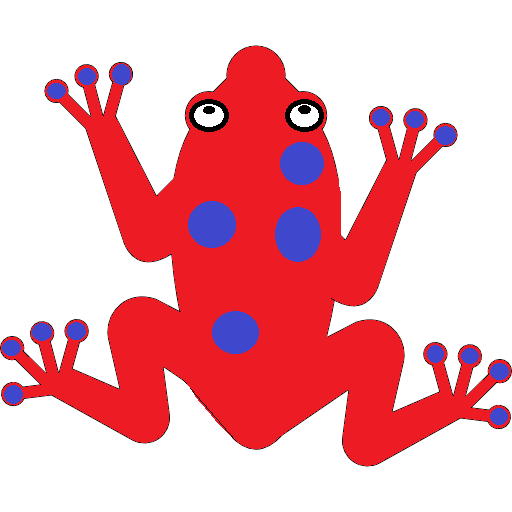
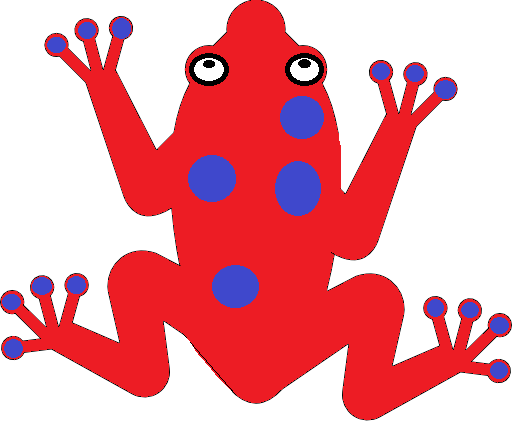
final resizability, random objects/logs speeds, slightly better object images
and many small improvements

diff --git a/main.py b/main.py
@@ -8,20 +8,39 @@ from pygame import mixer
 # reset function
 def reset():
     # getting the new one_game_unit
-    global one_game_unit
+    global one_game_unit, screen
     copy_of_unit = one_game_unit
     one_game_unit = int(screen.get_height() / 12)
-    print(one_game_unit)
-    # here some more resizing of the window will be done, I am currently working on a solution(the problem is that some times the
-    # one_game_unit is a float, but because I convert it to an int there can be problems with where to spawn the obstacles and logs)
+    # finding out which exponent of one_game_unit is the closest to the screen height
+    i = 0
+    tmp = 0
+    while one_game_unit*i <= screen.get_height():
+        tmp = one_game_unit*i
+        i += 1
+    # doing the same for the width
+    j = 0
+    tmp2 = 0
+    while one_game_unit*j <= screen.get_width():
+        tmp2 = one_game_unit*j
+        j += 1
+    # resizing the screen
+    if resizability:
+        screen = pygame.display.set_mode((tmp2, tmp), pygame.RESIZABLE)
+    else:
+        screen = pygame.display.set_mode((tmp2, tmp))
 
         # resizing all the images
     if one_game_unit != copy_of_unit:
         # resizing the player
-        global resized_player, resized_an_player1, resized_an_player2
-        resized_player = pygame.transform.scale(player_image, (one_game_unit/1.5, one_game_unit/1.5))
-        resized_an_player1 = pygame.transform.scale(an_player1, (one_game_unit/1.5, one_game_unit/1.5))
-        resized_an_player2 = pygame.transform.scale(an_player2, (one_game_unit/1.5, one_game_unit/1.5))
+        global resized_player, resized_an_player1, resized_an_player2, player
+        resized_player = pygame.transform.scale(player_image, (one_game_unit/1.5, one_game_unit/1.7))
+        resized_an_player1 = pygame.transform.scale(an_player1, (one_game_unit/1.5, one_game_unit/1.7))
+        resized_an_player2 = pygame.transform.scale(an_player2, (one_game_unit/1.5, one_game_unit/1.7))
+        # I realised I never actually resized the player(I did thought it looked small, I thought that I deleted the player and created a new one, turned out I only moved him to starting position)
+        player.image = resized_player
+        player.an_images = [resized_an_player1, resized_an_player2]
+        player.rect = player.image.get_rect()
+        #print(player.image.get_width(), player.image.get_height())
         # resizing the obstacles
         global resized_obstacles
         resized_obstacles = [pygame.transform.scale(obstacle_image, (one_game_unit*2, one_game_unit)),
@@ -32,11 +51,12 @@ def reset():
                                 pygame.transform.scale(obstacle_image_blue, (one_game_unit*2, one_game_unit)),
                                 pygame.transform.scale(obstacle_image_green, (one_game_unit*2, one_game_unit))]
         # resizing the background objects
-        global resized_stump, resized_flower, resized_stone, background_objects
+        global resized_stump, resized_flower, resized_stone,resized_logs, background_objects
         resized_stump = pygame.transform.scale(stump_image, (one_game_unit, one_game_unit))
         resized_flower = pygame.transform.scale(flower_image, (one_game_unit, one_game_unit))
         resized_stone = pygame.transform.scale(stone_image, (one_game_unit, one_game_unit))
-        background_objects = [resized_stump, resized_flower, resized_stone]
+        resized_logs = pygame.transform.scale(logs_image, (one_game_unit, one_game_unit))
+        background_objects = [resized_stump, resized_flower, resized_stone, resized_logs]
         # resizing the water images
         global resized_log, resized_lilypad, water_images
         resized_log = pygame.transform.scale(log_image, (one_game_unit*2, one_game_unit))
@@ -52,7 +72,7 @@ def reset():
         resized_settings_button = pygame.transform.scale(settings_button, (one_game_unit, one_game_unit))
 
     # resetting the obstacles and logs and etc.
-    global obstacle_group, log_group, backgrounds_group, score, end_screen_active, player, background_objects_group
+    global obstacle_group, log_group, backgrounds_group, score, end_screen_active, background_objects_group
     # resetting the score
     score = 0
     # resetting the player
@@ -110,7 +130,7 @@ def end_screen(death_type):
             # checking if the file is empty
             if jokes_temp == []:
                 jokes = ["Why did the frog cross the road? To get to the other side!"]
-            # deleting the \n from the jokes and the â€™(no idea where did that come from)
+            # deleting the \n from the jokes and the â€™(no idea where did that come from or which character is that)
             for i in range(len(jokes_temp)):
                 jokes_temp[i] = jokes_temp[i].replace("\n", "")
                 jokes_temp[i] = jokes_temp[i].replace("â€™", "")
@@ -337,17 +357,17 @@ def spawn_func():
             for i in background.coordinates:
                 if background.type == "road" and background.rect.y < screen.get_height():
                     if temp % 2 == 0:
-                        obstacles_to_spawn.append(Obstacle(i, "left", None, None))
+                        obstacles_to_spawn.append(Obstacle(i, "left", background))
                         spawn_obstacles = True
                     else:
-                        obstacles_to_spawn.append(Obstacle(i, "right", None, None))
+                        obstacles_to_spawn.append(Obstacle(i, "right", background))
                         spawn_obstacles = True
                 elif background.type == "water" and background.rect.y < screen.get_height():
                     if temp % 2 == 0:
-                        logs_to_spawn.append(Log(i, "left", None, None))
+                        logs_to_spawn.append(Log(i, "left", background))
                         spawn_logs = True
                     else:
-                        logs_to_spawn.append(Log(i, "right", None, None))
+                        logs_to_spawn.append(Log(i, "right", background))
                         spawn_logs = True
                 temp += 1
         if running:
@@ -355,13 +375,16 @@ def spawn_func():
     quited = True
 
 # function to apply the settings
-def apply_settings(window, setting1,setting2, setting3):
+def apply_settings(window, invincible1, back_wards_movement1, show_fps1, name):
     global invincible
-    invincible = setting1
+    invincible = invincible1
     global back_wards_movement
-    back_wards_movement = setting2
+    back_wards_movement = back_wards_movement1
     global show_fps
-    show_fps = setting3
+    show_fps = show_fps1
+    global player_name
+    if name != "":
+        player_name = name
     window.destroy()
 
 # settings screen function
@@ -401,9 +424,15 @@ def settings_screen():
     e3.set(show_fps)
     checkbutton3 = tk.Checkbutton(frame, variable=e3)
     checkbutton3.grid(row=2, column=1)
+    # label for name setting
+    label4 = tk.Label(frame, text="Name")
+    label4.grid(row=3, column=0)
+    # entry for the name setting
+    e4 = tk.Entry(frame)
+    e4.grid(row=3, column=1)
 
     # creating a apply button
-    apply_button = tk.Button(window, text="Apply", width=10,height=2, command=lambda: apply_settings(window, e1.get(), e2.get(), e3.get()))
+    apply_button = tk.Button(window, text="Apply", width=10,height=2, command=lambda: apply_settings(window, e1.get(), e2.get(), e3.get(), e4.get()))
     apply_button.pack(side="bottom")
 
     window.mainloop()
@@ -440,6 +469,11 @@ def fill_with_objects(background):
         for i in range(random.randint(3, 10)):
             background_object = BackgroundObject(random.randint(0, screen.get_width()-one_game_unit), random.randint(background.rect.y, background.rect.y+background.image.get_height()-one_game_unit))
             background_objects_group.add(background_object)
+
+# function to fill the background with some obstacles or logs when the background is created
+def filling_back(background):
+    # will be done later...
+    pass
 
 # Classes
 # Player class
@@ -506,30 +540,30 @@ class BackgroundObject(pygame.sprite.Sprite):
 
 # obstacle class
 class Obstacle(pygame.sprite.Sprite):
-    def __init__(self, y, direction, speed, x):
+    def __init__(self, y, direction, background):
         super().__init__()
         self.image = random.choice(resized_obstacles)
         self.rect = self.image.get_rect()
         self.rect.y = y
-        if speed == None:
-            self.speed = 1 # later this will be random maybe
-        else:
-            self.speed = speed
         self.direction = direction
-        if x == None:
-            if self.direction == "left":
-                # self.rect.x has to be a little bigger, so that the cars can be deleted in the main code if they are on top of each other
-                self.rect.x = screen.get_width()+random.randint(one_game_unit//5, obstacle_image.get_width())
-                self.image = pygame.transform.flip(self.image, True, False)
-            elif self.direction == "right":
-                # self.rect.x has to be a little bigger, so that the cars can be deleted in the main code if they are on top of each other
-                self.rect.x = 0 - self.rect.width - random.randint(one_game_unit//5, obstacle_image.get_width())
-        else:
-            self.rect.x = x
-            if self.direction == "left":
-                self.image = pygame.transform.flip(self.image, True, False)
-            elif self.direction == "right":
-                pass
+        if self.direction == "left":
+            # self.rect.x has to be a little bigger, so that the cars can be deleted in the main code if they are on top of each other
+            self.rect.x = screen.get_width()+random.randint(one_game_unit//5, obstacle_image.get_width())
+            self.image = pygame.transform.flip(self.image, True, False)
+        elif self.direction == "right":
+            # self.rect.x has to be a little bigger, so that the cars can be deleted in the main code if they are on top of each other
+            self.rect.x = 0 - self.rect.width - random.randint(one_game_unit//5, obstacle_image.get_width())
+        # setting the speed of the obstacle based on the background selected speed for the specific y coordinate
+        # the same as for the logs
+        for i in range(len(background.coordinates)):
+            if self.rect.y == background.coordinates[i]:
+                self.speed = background.speeds[i]
+                break
+            elif self.rect.y > background.coordinates[i] and self.rect.y < background.coordinates[i+1]:
+                self.speed = background.speeds[i]
+                break
+            elif self.rect.y < background.coordinates[i] and self.rect.y > background.coordinates[i+1]:
+                self.speed = background.speeds[i]
 
     def move(self):
         if self.direction == "left":
@@ -543,7 +577,7 @@ class Obstacle(pygame.sprite.Sprite):
 
 # log class
 class Log(pygame.sprite.Sprite):
-    def __init__(self, y, direction, speed ,x):
+    def __init__(self, y, direction, background):
         super().__init__()
         rand = random.randint(0, 5)
         if rand == 0:
@@ -552,22 +586,26 @@ class Log(pygame.sprite.Sprite):
             self.image = water_images[0]
         self.rect = self.image.get_rect()
         self.rect.y = y
-        if speed == None:
-            self.speed = 1 # again will be random later maybe
-        else:
-            self.speed = speed
         self.direction = direction
-        if x == None:
-            if self.direction == "left":
-                # self.rect.x has to be a little bigger, so that the cars can be deleted in the main code if they are on top of each other
-                self.rect.x = screen.get_width()+random.randint(one_game_unit//5, log_image.get_width())
-            elif self.direction == "right":
-                # self.rect.x has to be a little bigger, so that the cars can be deleted in the main code if they are on top of each other
-                self.rect.x = 0 - self.rect.width - random.randint(one_game_unit//5, log_image.get_width())
-        else:
-            self.rect.x = x
+        if self.direction == "left":
+            # self.rect.x has to be a little bigger, so that the cars can be deleted in the main code if they are on top of each other
+            self.rect.x = screen.get_width()+random.randint(one_game_unit//5, log_image.get_width())
+        elif self.direction == "right":
+            # self.rect.x has to be a little bigger, so that the cars can be deleted in the main code if they are on top of each other
+            self.rect.x = 0 - self.rect.width - random.randint(one_game_unit//5, log_image.get_width())
         self.has_player = False
         self.initial_x = self.rect.x
+        # setting the speed of the log based on the background selected speed for the specific y coordinate
+        # if the y coordinate is close enough then it will have the same speed as the specific y coordinate
+        for i in range(len(background.coordinates)):
+            if self.rect.y == background.coordinates[i]:
+                self.speed = background.speeds[i]
+                break
+            elif self.rect.y > background.coordinates[i] and self.rect.y < background.coordinates[i+1]:
+                self.speed = background.speeds[i]
+                break
+            elif self.rect.y < background.coordinates[i] and self.rect.y > background.coordinates[i+1]:
+                self.speed = background.speeds[i] 
 
     def move(self):
         if self.direction == "left":
@@ -608,13 +646,16 @@ class Background(pygame.sprite.Sprite):
         else:
             self.rect.y = 0
         self.coordinates = []
+        self.speeds = []
         # getting all the coordinates for placing the obstacles
         for i in range(self.rect.y, self.rect.y+ self.image.get_height(), one_game_unit):
             self.coordinates.append(i)
-        #print(self.coordinates)
+            self.speeds.append(random.randint(1, 2))
         # filling the grass background with background objects
         if self.type == "grass":
             fill_with_objects(self)
+        # adding starting logs or obstacles to the background, this prevents the player from just rushing through the game
+        filling_back(self)
 
     def draw(self, screen):
         screen.blit(self.image, (self.rect.x, self.rect.y))
@@ -655,11 +696,11 @@ resized_settings_button = pygame.transform.scale(settings_button, (one_game_unit
 
 # creating the player
 player_image = pygame.image.load('frog.png')
-resized_player = pygame.transform.scale(player_image, (one_game_unit/1.5, one_game_unit/1.5))
+resized_player = pygame.transform.scale(player_image, (one_game_unit/1.5, one_game_unit/1.7))
 an_player1 = pygame.image.load('frog1.png')
-resized_an_player1 = pygame.transform.scale(an_player1, (one_game_unit/1.5, one_game_unit/1.5))
+resized_an_player1 = pygame.transform.scale(an_player1, (one_game_unit/1.5, one_game_unit/1.7))
 an_player2 = pygame.image.load('frog2.png')
-resized_an_player2 = pygame.transform.scale(an_player2, (one_game_unit/1.5, one_game_unit/1.5))
+resized_an_player2 = pygame.transform.scale(an_player2, (one_game_unit/1.5, one_game_unit/1.7))
 player = Player()
 
 # creating the background objects group
@@ -671,16 +712,18 @@ flower_image = pygame.image.load('flower.png')
 resized_flower = pygame.transform.scale(flower_image, (one_game_unit,one_game_unit))
 stone_image = pygame.image.load('stone.png')
 resized_stone = pygame.transform.scale(stone_image, (one_game_unit, one_game_unit))
+logs_image = pygame.image.load('background_logs.png')
+resized_logs = pygame.transform.scale(logs_image, (one_game_unit, one_game_unit))
 
-background_objects= [resized_stump, resized_flower, resized_stone]
+background_objects= [resized_stump, resized_flower, resized_stone, resized_logs]
 # obstacle image
-obstacle_image = pygame.image.load('temporary_obstacle.png')
-obstacle_image_red = pygame.image.load('temporary_obstacle_red.png')
-obstacle_image_yellow = pygame.image.load('temporary_obstacle_yellow.png')
-obstacle_image_purple = pygame.image.load('temporary_obstacle_purple.png')
-obstacle_image_pink = pygame.image.load('temporary_obstacle_pink.png')
-obstacle_image_blue = pygame.image.load('temporary_obstacle_blue.png')
-obstacle_image_green = pygame.image.load('temporary_obstacle_green.png')
+obstacle_image = pygame.image.load('temporary_obstacle.png') # they are not temporary anymore, but I am too lazy to change the names
+obstacle_image_red = pygame.image.load('temporary_obstacle_red.png')# they are not temporary anymore, but I am too lazy to change the names
+obstacle_image_yellow = pygame.image.load('temporary_obstacle_yellow.png')# they are not temporary anymore, but I am too lazy to change the names
+obstacle_image_purple = pygame.image.load('temporary_obstacle_purple.png')# they are not temporary anymore, but I am too lazy to change the names
+obstacle_image_pink = pygame.image.load('temporary_obstacle_pink.png')# they are not temporary anymore, but I am too lazy to change the names
+obstacle_image_blue = pygame.image.load('temporary_obstacle_blue.png')# they are not temporary anymore, but I am too lazy to change the names
+obstacle_image_green = pygame.image.load('temporary_obstacle_green.png')# they are not temporary anymore, but I am too lazy to change the names
 resized_obstacles = [pygame.transform.scale(obstacle_image, (one_game_unit*2, one_game_unit)), 
                      pygame.transform.scale(obstacle_image_red, (one_game_unit*2, one_game_unit)), 
                      pygame.transform.scale(obstacle_image_yellow, (one_game_unit*2, one_game_unit)), 
@@ -735,7 +778,7 @@ font = pygame.font.Font(None, screen.get_height()//12)
 while running:
 
     # showing the start screen
-    while start_screen_active:
+    while start_screen_active and running: # running has to be here as well, it prevents an error when the game is closed
         start_screen()
 
     # starting the thread for the spawning of obstacles and logs
@@ -844,21 +887,35 @@ while running:
     background_objects_group.draw(screen)
 
                 # drawing everything
-    try:
-        # drawing the obstacles
-        obstacle_group.draw(screen)
+    #try:
+    #    # drawing the obstacles
+    #    obstacle_group.draw(screen)
+#
+    #    # drawing the logs
+    #    log_group.draw(screen)
+    #except:
+    #    # weirdly enough, this still sometimes happen, maybe when there is too much sprites?
+    #    # at this point I have absolutely no idea why this happens, so I guess I will just have to leave it like this
+    #    pass
 
-        # drawing the logs
-        log_group.draw(screen)
-    except:
-        # weirdly enough, this still sometimes happen, maybe when there is too much sprites?
-        print("We hebben een serieus probleem")
+    # maybe this will fix the issue, or at least make it less visible. It did make it less videspread(now only one obstacle blinks), but it still happens
+    # however it is bearable now
+    for obstacle in obstacle_group:
+        try:
+            obstacle.draw(screen)
+        except:
+            pass
+    for log in log_group:
+        try:
+            log.draw(screen)
+        except:
+            pass
 
     # drawing the player
     player.draw(screen)
 
     # resetting the change_in_y(if this is not done, the logs would never stop moving)
-    # this has to be done after drawing the player, since player.draw uses it
+    # this has to be done after drawing, since classes use it
     change_in_y = 0
 
     # drawing a settings button
@@ -927,7 +984,6 @@ while running:
     if spawn_logs:
         for log in logs_to_spawn:
             log_group.add(log)
-            print(log.image.get_height())
         logs_to_spawn.clear()
         spawn_logs = False
     if spawn_obstacles:
@@ -966,7 +1022,6 @@ while running:
                 # this ensures that the deleting happens only outside of players view
                 if obstacle.rect.x < 0 and obstacle1.rect.x < 0 or obstacle.rect.x > screen.get_width() and obstacle1.rect.x > screen.get_width():
                     tmp1 = True
-                    #print(obstacle.rect.x, obstacle1.rect.x)
                 if pygame.sprite.collide_rect(obstacle, obstacle1) and tmp and obstacle.direction == obstacle1.direction and tmp1:
                     obstacle_group.remove(obstacle)
 
